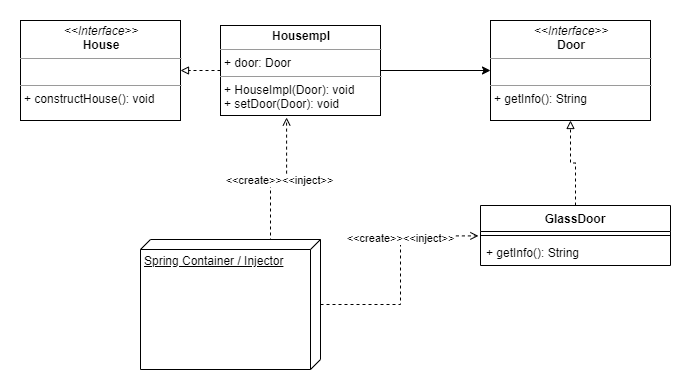
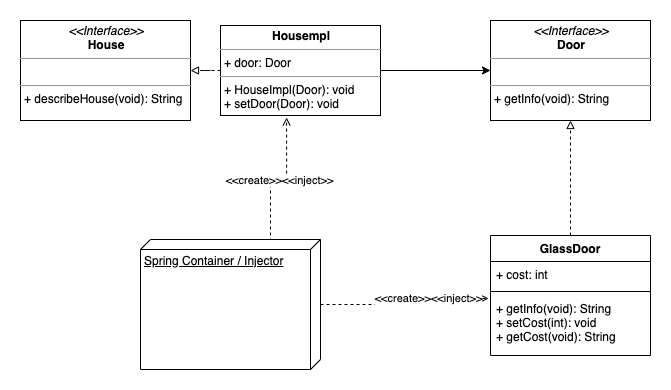
minor updates

diff --git a/src/main/java/ufm/cis/jayani/SpringDependencyExample.java b/src/main/java/ufm/cis/jayani/SpringDependencyExample.java
@@ -7,7 +7,7 @@ public class SpringDependencyExample {
 
     public static void main(String[] args) {
 
-        ApplicationContext appContext = new ClassPathXmlApplicationContext("classpath:applicationContextWoodenDoor.xml");
+        ApplicationContext appContext = new ClassPathXmlApplicationContext("classpath:applicationContext.xml");
 
         House myHouse = (House) appContext.getBean("houseDef");
         myHouse.describeHouse();

diff --git a/src/main/java/ufm/cis/jayani/di/WoodenDoor.java b/src/main/java/ufm/cis/jayani/di/WoodenDoor.java
@@ -1,8 +1,19 @@
 package ufm.cis.jayani.di;
 
 public class WoodenDoor implements Door {
-    public String getInfo() {
+    private int cost;
 
-        return "Door type : Wooden\nCost : 200$";
+    public int getCost() {
+
+        return cost;
+    }
+
+    public void setCost(int cost) {
+
+        this.cost = cost;
+    }
+
+    public String getInfo() {
+        return "Door type : Wooden\nCost : " +this.getCost();
     }
 }

diff --git a/src/main/java/ufm/cis/jayani/di/GlassDoor.java b/src/main/java/ufm/cis/jayani/di/GlassDoor.java
@@ -1,8 +1,19 @@
 package ufm.cis.jayani.di;
 
 public class GlassDoor implements Door {
+    private int cost;
+
+    public int getCost() {
+
+        return cost;
+    }
+
+    public void setCost(int cost) {
+
+        this.cost = cost;
+    }
 
     public String getInfo() {
-        return "Door type : Glass\nCost : 500$";
+        return "Door type : Glass\nCost : " + this.getCost();
     }
 }

diff --git a/src/main/java/ufm/cis/jayani/di/Door.java b/src/main/java/ufm/cis/jayani/di/Door.java
@@ -1,6 +1,6 @@
 package ufm.cis.jayani.di;
 
 public interface Door {
-
     String getInfo();
+
 }

diff --git a/README.MD b/README.MD
@@ -1,0 +1,3 @@
+#### Dependency Injection Demo
+To run: \
+mvn compile exec:java
